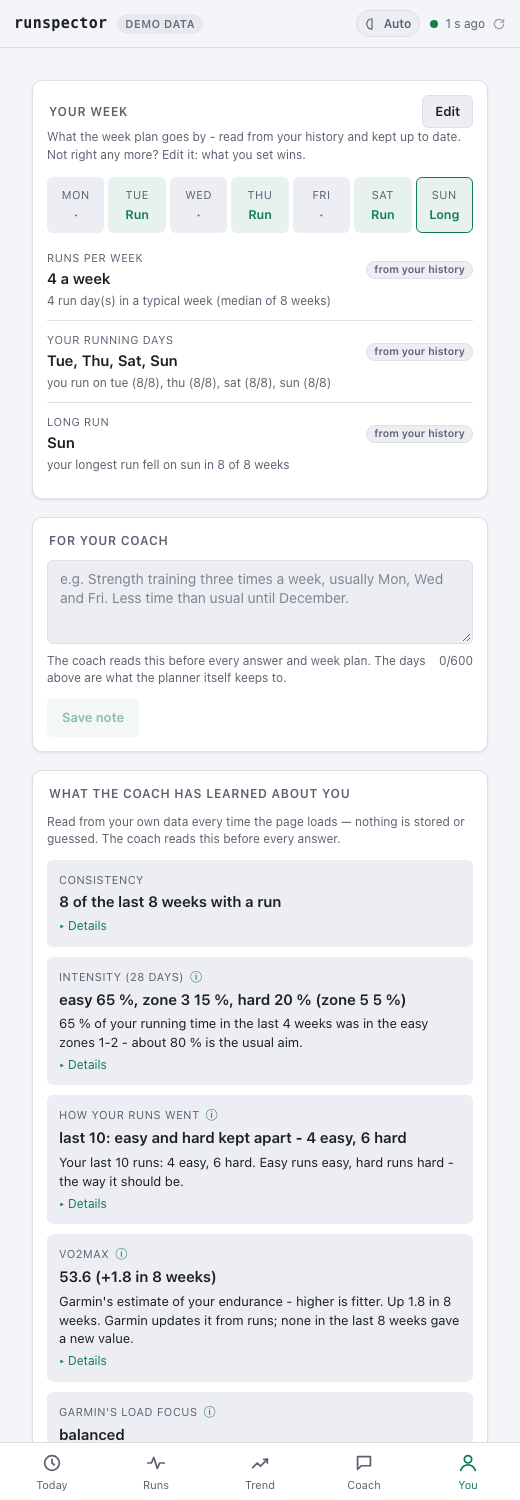
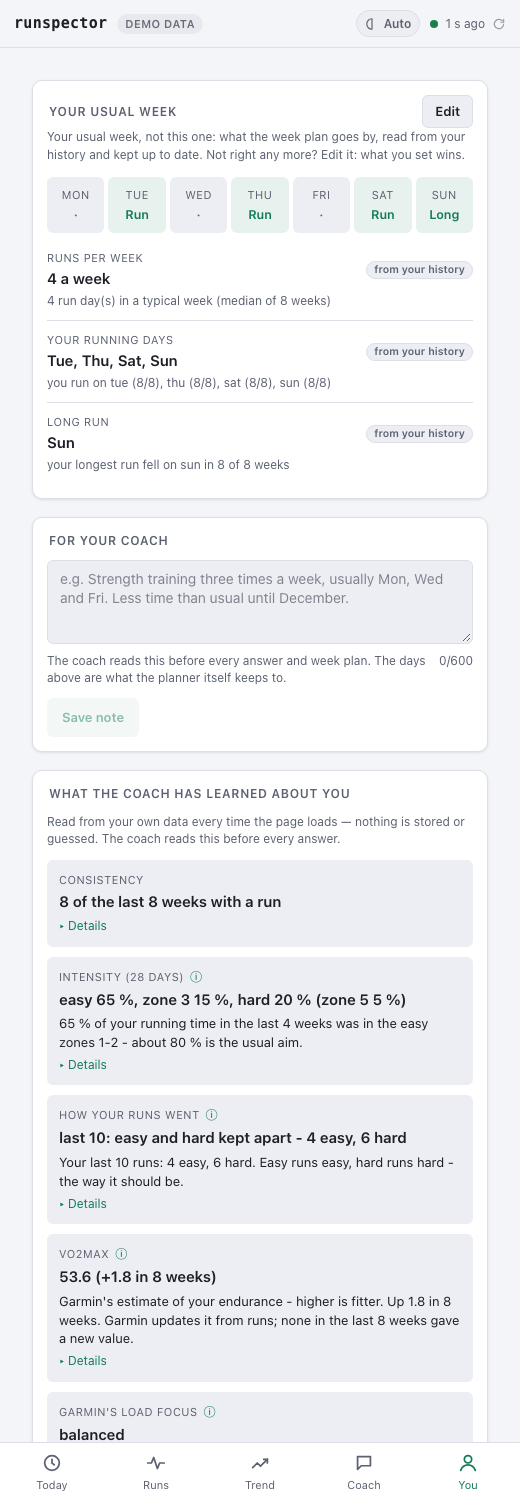
A coach card leads with its conclusion, whole, and marks only what is not your data; the You tab's week says it is the usual one, Cancel sits where Edit was, and the long-run day no longer wears the "today" ring
- The card list cut the coach's conclusion at 160 characters - "what to do" stopped at "The first har…" - and showed it as a small pill. It now reaches the page whole (capped at 600) and stands as a block under the headline.
- "your data" in front of nearly every point said nothing: only "you said" and "coach's reading" are marked now, and "How this card was made" says that a point without a mark comes from your data. The line under a point whose number is not in the data moved there too; the card's summary line still says how many numbers were found.
- What changed since the last card sits with the further points: one fold-out instead of two. "Feedback" says it holds the follow-up question.
- You tab: "Your usual week, not this one"; in the editor Cancel is in the header where Edit was (it was only at the bottom, and the way out was not found); the long-run tile lost the green ring the Today tab uses for today.

From a first look by the owner at the running app. Tests 1,348 and 119 frontend tests; the coach's rules are unchanged, so the evals stand at 36/38.

Claude-Session: https://claude.ai/code/session_016Eyb8p4wX1gpNgBPkmD55Q

Changed region(s): [[0.0923, 0.0613, 0.6769, 0.1227], [0.8, 0.092, 0.8923, 0.1227], [0.7077, 0.092, 0.7692, 0.1227]]

diff --git a/src/runspector/web/static/cards.js b/src/runspector/web/static/cards.js
@@ -222,7 +222,8 @@ export function renderEvidence(rec, det = () => "") {
   if (rec.error) return `<div class="note">The record could not be loaded: ${esc(rec.error)}</div>`;
   const intro = `<p class="note">The coach can reach your data only through this app's own tools
     - no web, no files, nothing else on this computer. This is everything it looked at for this
-    card, in order, with what came back.</p>`;
+    card, in order, with what came back. A point on the card comes from your data unless it is
+    marked "you said" or "coach's reading".</p>`;
   if (!rec.recorded) {
     return `<p class="note">${rec.gone ? "The record of this card is no longer there - its file was deleted."
       : rec.old ? "This card was made before the app kept a record of what the coach looked at."
@@ -389,22 +390,25 @@ export function renderCard(c, opts = {}) {
     // Each point carries where it comes from: a small badge in front, and,
     // when a point says it is your data and the record does not back that,
     // the reason in a line under it.
+    // Only the exceptions are marked - "you said", "coach's reading": "your
+    // data" in front of nearly every point said nothing, and a point without
+    // a mark is data. Whether its numbers are in the data is the check in
+    // "How this card was made", not a line in the middle of the reading.
     const points = list => list.map(({ text, src }) => {
       const b = sourceBadge(src);
-      const badge = b ? `<span class="src src-${esc(b.kind)}${b.warn ? " src-warn" : ""}"
-        title="${esc(b.tip)}">${b.warn ? "! " : ""}${esc(b.label)}</span> ` : "";
-      return `<p class="card-text">${badge}${esc(truncate(textPlain(text), 400))}${
-        b?.warn ? `<span class="src-why">${esc(b.why)}</span>` : ""}</p>`;
+      const badge = b && b.kind !== "measured"
+        ? `<span class="src src-${esc(b.kind)}" title="${esc(b.tip)}">${esc(b.label)}</span> ` : "";
+      return `<p class="card-text">${badge}${esc(truncate(textPlain(text), 400))}</p>`;
     }).join("");
-    const content = points(visible) + (rest.length
-      ? `<details class="card-more" ${det("more")}><summary>${rest.length} more point${
-          rest.length === 1 ? "" : "s"}</summary>${points(rest)}</details>`
+    // The further points and what changed since the last card behind ONE line:
+    // each its own fold-out made four of them on a card.
+    const delta = c.delta ? `<div class="card-delta">${esc(textPlain(c.delta))}</div>` : "";
+    const moreLabel = [rest.length ? `${rest.length} more point${rest.length === 1 ? "" : "s"}` : "",
+                       delta ? (rest.length ? "what changed since the last card" : "What changed since the last card") : ""]
+      .filter(Boolean).join(" · ");
+    const content = points(visible) + (moreLabel
+      ? `<details class="card-more" ${det("more")}><summary>${moreLabel}</summary>${points(rest)}${delta}</details>`
       : "");
-    // Delta, feedback and follow-up each sit behind one line: they are tools,
-    // not content — left open they doubled the height of the card.
-    const delta = c.delta
-      ? `<details class="card-more card-delta-wrap" ${det("delta")}><summary>Since the last card</summary>
-           <div class="card-delta">${esc(textPlain(c.delta))}</div></details>` : "";
     const metaLine = meta.length ? `<div class="card-metaline">${meta.map(esc).join(" · ")}</div>` : "";
     // What the coach looked at - loaded when opened (`install()`), from the
     // card's own record. Cards older than the record have none.
@@ -421,10 +425,10 @@ export function renderCard(c, opts = {}) {
     const value = c.feedback?.value;
     const respond = (fb || fu)
       ? `<details class="card-more card-respond" ${det("respond")}${pending || value ? " open" : ""}>
-           <summary>Feedback${value ? (value === "good" ? " · 👍" : " · 👎") : ""}${
+           <summary>Feedback or a follow-up question${value ? (value === "good" ? " · 👍" : " · 👎") : ""}${
              pending ? " · answer on its way" : ""}</summary>${fb}${fu}</details>` : "";
     body = `<div class="card-body">${content || `<div class="empty-note">No content.</div>`}${
-      proposal}${delta}${evidence}${metaLine}${respond}</div>`;
+      proposal}${evidence}${metaLine}${respond}</div>`;
   }
   // Answers hang visibly BELOW the parent card — even when it is collapsed,
   // otherwise nobody would see that a follow-up question has been answered.

diff --git a/src/runspector/web/static/you.js b/src/runspector/web/static/you.js
@@ -232,7 +232,10 @@ function editRows(week, draft, saving) {
 function weekCard(week, facts, ui) {
   const draft = ui && ui.draft;
   if (!week) return "";
-  const head = `<div class="you-head"><div class="subhead">Your week</div>${draft ? ""
+  // Cancel where Edit was: at the bottom only, the way out was not where the
+  // eye looked for it.
+  const head = `<div class="you-head"><div class="subhead">Your usual week</div>${draft
+    ? `<button type="button" class="btn btn-quiet" data-week-cancel ${ui.saving ? "disabled" : ""}>Cancel</button>`
     : `<button type="button" class="btn btn-quiet" data-week-edit>Edit</button>`}</div>`;
   if (draft) {
     const dirty = draft.touched.length || draft.reset.length;
@@ -247,8 +250,8 @@ function weekCard(week, facts, ui) {
       </div></div>`;
   }
   return `<div class="card you-week">${head}
-    <div class="note">What the week plan goes by - read from your history and kept up to date.
-      Not right any more? Edit it: what you set wins.</div>
+    <div class="note">Your usual week, not this one: what the week plan goes by, read from your
+      history and kept up to date. Not right any more? Edit it: what you set wins.</div>
     ${weekStrip(week)}
     <div class="week-rows">${readRows(week, facts)}</div></div>`;
 }

diff --git a/src/runspector/web/static/cards.css b/src/runspector/web/static/cards.css
@@ -15,10 +15,11 @@
 .card-meta { font-size: 11px; color: var(--muted); overflow-wrap: anywhere; }
 /* The verdict is a sentence and may wrap — as a single-line pill it was cut
    off at the right edge. */
-.card-verdict { justify-self: start; display: inline-block; font-size: 12px;
-                font-weight: 600; line-height: 1.4; padding: 3px 10px;
-                border-radius: 999px; color: var(--accent);
-                background: var(--accent-tint); }
+/* The coach's conclusion - what to do - whole, as a block under the headline:
+   as a small pill it read like a tag and was cut after two lines. */
+.card-verdict { display: block; font-size: 14px; font-weight: 500; line-height: 1.45;
+                padding: 8px 10px; border-left: 3px solid var(--accent); border-radius: 6px;
+                color: var(--text); background: var(--accent-tint); }
 .chev { position: absolute; right: 14px; top: 14px; color: var(--muted); font-size: 13px; }
 .card-body { padding: 12px 14px 14px; display: grid; gap: 10px;
              border-top: 1px solid var(--line); }

diff --git a/src/runspector/web/static/tokens.css b/src/runspector/web/static/tokens.css
@@ -252,7 +252,8 @@ select.field {
 .day-extra { font-size: 10px; color: var(--muted); }
 .day-run { background: var(--accent-tint); }
 .day-run .day-role { color: var(--accent); }
-.day-long { background: var(--accent-tint); border-color: var(--accent); }
+/* No outline: the green ring means "today" on the Today tab. */
+.day-long { background: var(--accent-tint); }
 .day-long .day-role { color: var(--accent); }
 .day-sport { background: var(--neutral-tint); }
 .day-sport .day-role { color: var(--text); }

diff --git a/tests/test_web.py b/tests/test_web.py
@@ -1005,3 +1005,18 @@ def test_every_reason_for_the_call_has_its_plain_why():
     table = table[:table.index("};")]
     missing = [r for r in sorted(reasons) if f'"{r}":' not in table]
     assert reasons and not missing, missing
+
+
+def test_the_coachs_conclusion_reaches_the_page_whole(tmp_path, monkeypatch):
+    """The card list cut the verdict at 160 characters - the coach's "what to do"
+    stopped at "The first har…" on the card."""
+    from runspector.web import jobs
+    monkeypatch.setenv("RUNSPECTOR_HOME", str(tmp_path))
+    verdict = ("This was a good easy run. Rest today. After 48 days without running, the coming "
+               "week is a return week with easy runs only and no hard session. The first hard "
+               "session comes the week after.")
+    assert len(verdict) > 160
+    jobs.write_card("j-20260101-000000-abcd", {"kind": "train-today", "headline": "h",
+                                               "verdict": verdict, "bullets": ["b"]})
+    (card,) = [c for c in jobs.public_cards() if c["id"] == "j-20260101-000000-abcd"]
+    assert card["verdict"] == verdict

diff --git a/src/runspector/web/jobs.py b/src/runspector/web/jobs.py
@@ -262,7 +262,8 @@ def public_cards(limit: int = 10) -> list[dict]:
             "kind": _cap(c.get("kind"), 40), "ref": _cap(c.get("ref"), 40),
             "day": str(c.get("day") or "")[:10],
             "headline": _cap(c.get("headline"), 220),
-            "verdict": _cap(c.get("verdict"), 160),
+            # The coach's "what to do": cut at 160 it stopped mid-word on the card.
+            "verdict": _cap(c.get("verdict"), 600),
             "bullets": [_cap(b, 400) for b in bullets[:8]],
             "delta": _cap(c.get("delta"), 300),
             "text": "",

diff --git a/docs/releases/v0.8.0.md b/docs/releases/v0.8.0.md
@@ -14,6 +14,9 @@ runspector serve
 - "Tap again" waits ten seconds and is no longer reset by the job list's redraw while a coach run is going - a first tap that seemed to do nothing. "Really cancel?" stays armed through the redraw too.
 - A failed coach run says what to do ("Try again", "Your Claude usage limit is reached"); the technical reason is in its log. The model's name is no longer on every card, and the number check reads "52 of 53 numbers found in your data".
 
+- A coach card leads with its conclusion, whole, under the headline (it was cut at 160 characters). Points come from your data unless marked "you said" or "coach's reading"; the check of every number is in "How this card was made". What changed since the last card sits with the further points.
+- The You tab's week is "Your usual week", Cancel sits where Edit was, and the long-run day no longer wears the ring that means "today".
+
 **How a card was made**
 - Every point on a coach card is marked: your data (and which tool it came from), what you said, or the coach's own reading. A number the coach worked out itself - an easy cap of 0.83 x your zone-5 floor, say - is marked as worked out, not passed off as measured.
 - "How this card was made" under each card lists every tool the coach called, what came back, and a check of every number on the card against it: found in the data, or not. The check is literal and says so - a number found was in front of the coach, it does not prove it was used rightly.

diff --git a/README.md b/README.md
@@ -56,7 +56,7 @@ actually about — each with the measurement behind it — are in
 [in the repo](evals/RESULTS.md) · quantities that exist in two languages are pinned by
 [executing the shipped JavaScript against the Python](tests/test_js_python_contract.py) · and the
 [release gate](scripts/pii_gate.py) scans binaries too, with a false-positive counter-case. CI runs lint,
-1347 tests, 117 frontend tests and that gate on three operating systems and two Python versions, with every
+1348 tests, 119 frontend tests and that gate on three operating systems and two Python versions, with every
 action pinned to a commit SHA — and a second job that [builds the wheel, installs it as a user would and
 drives the installed executable through this quick start](scripts/install_check.py) on all three systems,
 because the suite proves the code and only an install proves the package.</sub>
